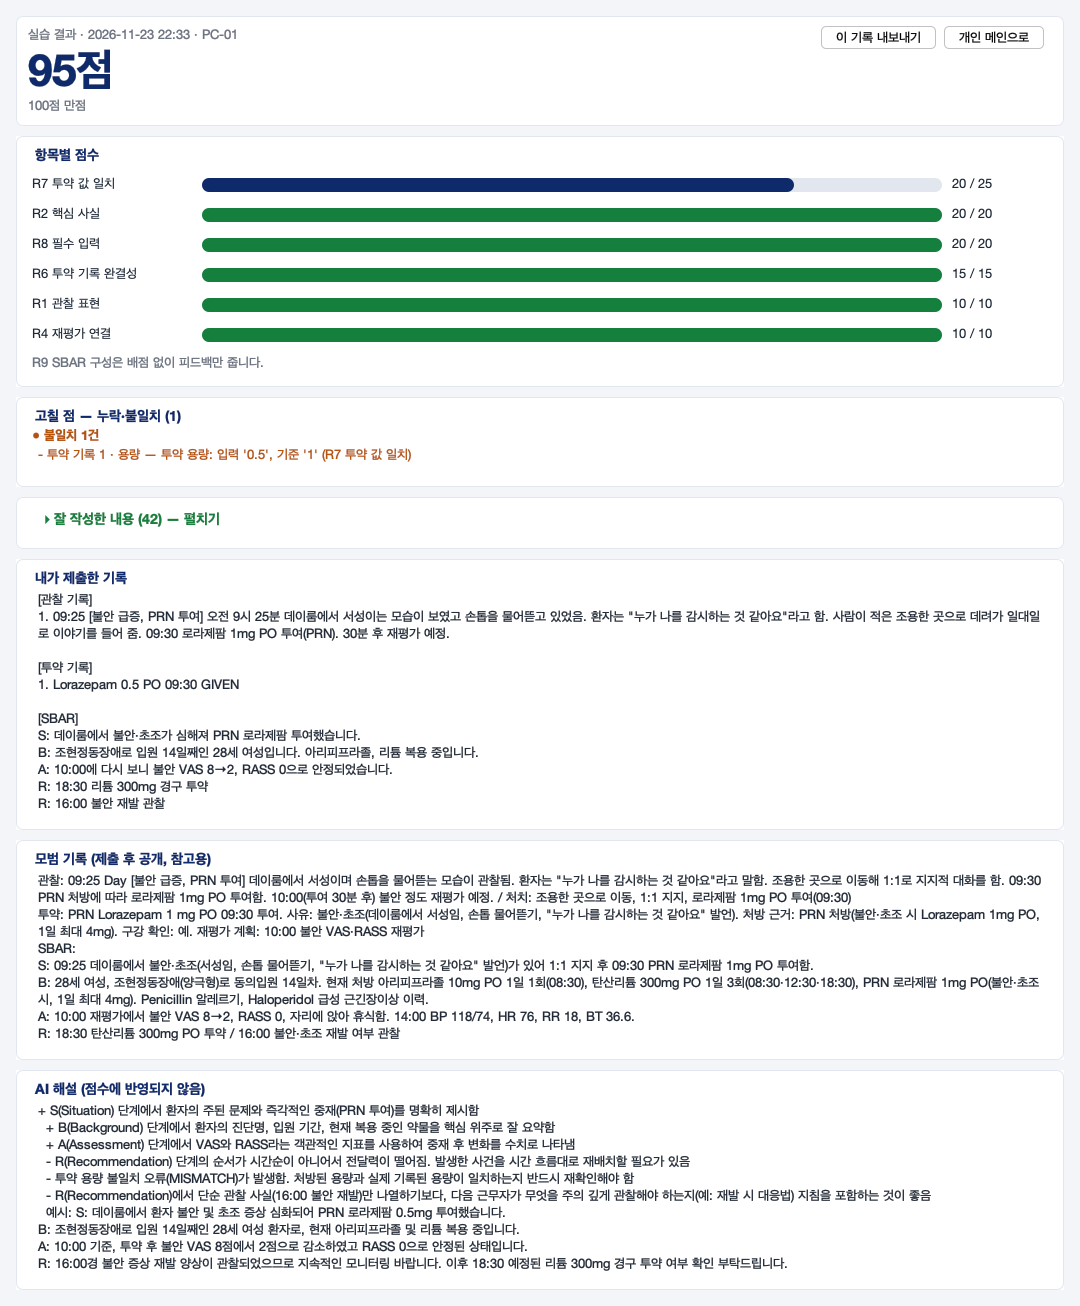
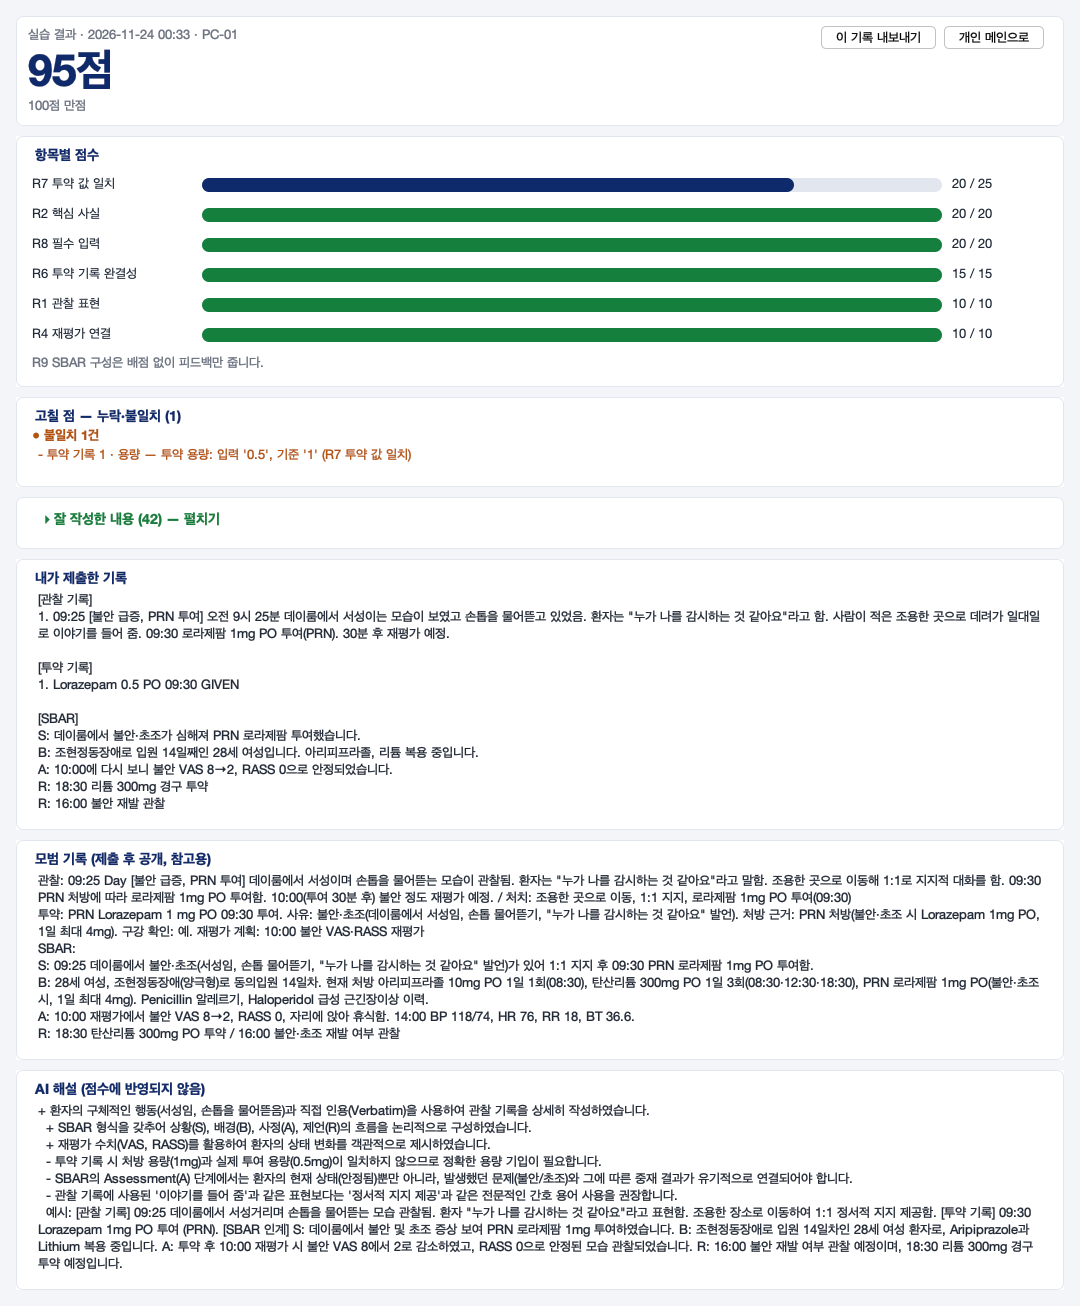
v0.1.2-1130으로 demo01 시연 5회 다시 실습
- 이전 버전 기록을 지운 뒤 릴리스 JAR로 5회 실습(100·95·90·86.7·86.7점, 의도한 실수만 감점)
- AI 해설 5/5 저장, 케이스에 없는 내용·null 지적·R 시각 오지적 없음
- docs/시연 캡처·내보내기·결과표·README 갱신(개인 메인 기록 5건)

Changed region(s): [[0.0306, 0.827, 0.9472, 0.9801]]

diff --git a/docs/시연/README.md b/docs/시연/README.md
@@ -1,60 +1,41 @@
-# demo01 시연 실습 5회
+# demo01 시연 실습 5회 (v0.1.2-1130)
 
-- 일시: 2026-11-23, main(0114b18, #11 병합 후) 기준 빌드
+- 일시: 2026-11-24, 릴리스 [v0.1.2-1130](https://github.com/dlstjr1207/java-pbl-nursing-chart/releases/tag/v0.1.2-1130) JAR(main `8da2e38`)로 실행. 릴리스에서 받은 JAR과 직접 빌드한 JAR의 해시가 같음을 확인
 - 실행: 실제 메인 창(`Main.createFrame`)을 띄우고 `UiWalkthrough`의 `demo5` 모드로 입력칸에 글을 넣고 버튼을 눌러 제출. 저장은 MySQL, AI 해설·AI 케이스 생성 켬
-- 계정: [docs/시연계정.md](../시연계정.md)
-- 입력 문장은 학생이 쓴 것처럼 회마다 다르게 썼고, 모범 기록 문장을 복사하지 않았다
+- 계정: [docs/시연계정.md](../시연계정.md). 이전 버전으로 만든 기록은 모두 지우고(사용자가 SQL로 삭제) 새로 실습했다
+- 학생 문장은 회마다 직접 썼고, 모범 기록 문장을 복사하지 않았다. ⑤는 도구가 AI 환자를 만든 뒤 멈추면 그 환자의 브리핑을 보고 문장을 써서 넣었다
 - 채점 규칙·배점은 바꾸지 않았다
 
 ## 결과표
 
-| 회 | 케이스 | 의도한 실수 | 점수 | 항목별 점수 | 주요 피드백 |
+| 회 | 환자 | 의도한 실수 | 점수 | 틀린 항목 | AI 해설 이상 여부 |
 |---|---|---|---|---|---|
-| ① | 김하늘 (PC-01) | 없음 (모범에 가까운 기록) | **100** | R7 25 · R2 20 · R8 20 · R6 15 · R1 10 · R4 10 | 누락·불일치 없음 |
-| ② | 김하늘 (PC-01) | 투약 용량 0.5mg | **95** | R7 **20**/25, 나머지 만점 | 불일치: 투약 용량 입력 '0.5', 기준 '1' (R7) |
-| ③ | 김하늘 (PC-01) | 발언을 따옴표 없이 바꿔 씀 + '협조적' | **90** | R1 **0**/10, 나머지 만점 | 누락: 환자 발언은 따옴표로 그대로 인용 (R1) · 피드백: '협조적'은 판단 표현 (R1, 배점 없음) |
-| ④ | 김하늘 (PC-01) | 재평가 계획 없음 + SBAR R 한 줄 | **86.7** | R2 **16.7**/20 · R4 **0**/10, 나머지 만점 | 누락: 관찰 기록의 재평가 (R2) · 재평가 계획 (R4) · 피드백: R에 '18:30 리튬 투약' 없음 (R9, 배점 없음) |
-| ⑤ | 안서윤 (GEN-20261123-2249, AI 생성) | 재평가 계획 누락 하나 (용량은 일부러 "1.0mg"으로 씀) | **86.7** | R2 **16.7**/20 · R4 **0**/10, 나머지 만점 | 누락: 관찰 기록의 재평가 (R2) · 재평가 계획 (R4) |
+| ① | 김하늘 (PC-01) | 없음 (모범에 가까운 기록) | **100** | 없음 | 없음 (참고: "A에 투약 전 VAS 8을 함께 쓰라"고 했으나 학생은 이미 "VAS 8→2"를 씀) |
+| ② | 김하늘 (PC-01) | 투약 용량 0.5mg | **95** | R7 용량 불일치 ('0.5', 기준 '1') | 없음. 0.5mg 불일치를 정확히 지적 |
+| ③ | 김하늘 (PC-01) | 발언을 따옴표 없이 바꿔 씀 + '협조적' | **90** | R1 따옴표 인용 누락 (0/10). '협조적' 판단 표현 피드백(배점 없음) | 없음. 예시에 케이스의 실제 발언만 인용 |
+| ④ | 김하늘 (PC-01) | 재평가 계획 없음 + SBAR R 한 줄 | **86.7** | R4 재평가 계획 누락 (0/10), R2 관찰의 재평가 누락 (16.7/20). R9 '18:30 리튬 투약' 없음 피드백(배점 없음) | 없음 |
+| ⑤ | 송미연 (GEN-20261124-0034, AI 생성) | 재평가 계획 누락 (용량은 일부러 "1.0mg"으로 씀) | **86.7** | R4 재평가 계획 누락 (0/10), R2 관찰의 재평가 누락 (16.7/20). "1.0mg"은 감점 없음 | 없음. 실제 발언("너무 불안해요")과 실제 수치(15:10 BP 115/75, HR 72)만 씀 |
 
-5회 모두 의도한 실수가 예상한 규칙에서 잡혔고, 다른 감점은 없었다. 5회 모두 AI 해설을 받았다(SUCCESS). 결과 화면 상단에는 매번 환자 이름과 케이스 ID가 보였다.
+- 5회 모두 의도한 실수만 감점되었다. 5회 모두 AI 해설을 받았다(SUCCESS).
+- AI 해설 이상 여부는 다섯 해설을 하나씩 읽고 확인했다. 확인 항목: 케이스에 없는 발언·수치·사건·간호 조치, 빈 값(null) 지적, R 시각 오지적.
+- 결과 화면 상단에는 매번 환자 이름과 케이스 ID가 보였다.
 
-### ⑤ 다시 실습 (용량 버그 수정 후)
+## 지금까지 고친 것
 
-처음 ⑤(홍준영, GEN-20261123-2235, 83.3점)는 두 가지 문제가 있어 다시 실습했다.
-
-- **용량 표기 버그:** AI 처방 용량이 `1.0`이라 관찰 서술의 "1.0mg"이 정답 키 `1mg|1 mg`과 맞지 않아 R2 '투약'이 누락으로 잡혔다. 채점 비교에서 숫자 끝 `.0`을 없애 "1.0mg"·"1.0 mg"·"1mg"을 같은 값으로 보게 고쳤고(학생 기록과 정답 키 모두), AI 케이스를 저장할 때 처방·정답 키·모범 투약 기록의 `1.0`을 `1`로 정리한다. "0.5mg"은 계속 틀린다. 배점·판단 기준은 그대로다.
-- **입력 문장:** 도구가 정답 키 단어를 이어 붙여 "서성 모습이 보임" 같은 문장이 생겼다. 다시 할 때는 도구가 AI 환자를 만든 뒤 사실(브리핑·처방·활력징후)을 파일로 남기고 멈추면, 사람이 그 환자에 맞는 문장을 써서 넘겼다.
-
-새 ⑤에서는 관찰 서술과 투약 기록에 일부러 "1.0mg"·"1.0"을 썼고, R2 '투약'과 R7 용량이 모두 통과했다. 의도한 실수(재평가 계획 누락)만 R2 재평가·R4에서 잡혔다.
-
-중간에 한 번 더 실습한 기록(정준혁, GEN-20261123-2247, 86.7점)이 있다. 이때 AI 해설이 학생이 쓴 실제 활력징후 값을 "케이스에 없는 수치"라고 잘못 지적했다. 해설 요청에 브리핑만 보내고 활력징후·관찰 로그는 보내지 않았기 때문이다. 이를 고친 뒤 안서윤으로 다시 실습했다. 이 기록과 처음 ⑤ 기록은 삭제 대상이다(아래 SQL).
-
-### AI 해설이 없는 사실을 만들지 않게
-
-처음 ③의 해설 예시에 케이스에 없는 환자 발언("너무 불안하고 마음이 안 잡혀요")이 들어갔다. 해설 지시문과 요청 글에 "케이스와 학생 기록에 없는 환자 발언·수치·사건을 만들지 말 것. 예시 문장에는 케이스의 실제 발언만 인용할 것"을 넣었다. 요청에는 케이스 브리핑·활력징후·관찰 로그와 학생 관찰 기록을 사실 자료로 함께 보낸다(정답 키·모범 기록은 보내지 않음). 새 ⑤ 해설의 예시는 케이스의 실제 발언("머릿속이 너무 복잡하고 무서워요")과 실제 수치(11:30 BP 115/75, HR 76)만 썼다. ①~④의 해설은 수정 전에 받은 것이라 그대로 두었다.
-
-### 기존 ⑤ 기록 삭제 (사용자가 직접 실행)
-
-```sql
--- 확인: 지울 2건만 나와야 한다 (id 11, 12)
-SELECT a.id, u.login_id, a.case_id, a.submitted_at, a.score
-FROM attempts a JOIN users u ON u.id = a.user_id
-WHERE u.login_id = 'demo01' AND a.case_id IN ('GEN-20261123-2235', 'GEN-20261123-2247');
-
--- 삭제: 관찰·투약·SBAR·점검 결과는 ON DELETE CASCADE로 함께 지워진다
-DELETE a FROM attempts a JOIN users u ON u.id = a.user_id
-WHERE u.login_id = 'demo01' AND a.case_id IN ('GEN-20261123-2235', 'GEN-20261123-2247');
-```
+| 버전 | 고친 것 |
+|---|---|
+| v0.1.1-1130 | 처방이 "1.0mg"일 때 그대로 쓰면 R2 투약 누락으로 감점되던 버그 (채점 비교에서 숫자 끝 .0 제거, AI 케이스 저장 시 1.0→1). AI 해설이 케이스에 없는 발언을 지어내던 문제 |
+| v0.1.2-1130 | AI 해설이 따옴표 때문에 '불러오지 못함'이 되던 문제(복구 + 한 번 재요청). 빈 활력값 null 지적, R 시각 오지적, 진단·약 "케이스에 없음" 오지적, 학생 투약 용량 오판, '격리' 지어내기. 확인 결과는 [docs/검증/ai-해설](../검증/ai-해설/README.md) |
 
 ## 알려진 한계 (채점 규칙은 바꾸지 않음)
 
-1. **R6은 구강 확인 체크를 점검하지 않는다(후속 범위).** 처음 ⑤에서 구강 확인을 체크하지 않았는데 R6이 만점이었다.
+1. **R6은 구강 확인 체크를 점검하지 않는다(후속 범위).**
 2. 결과 문구의 조사가 어색하다: "재평가을(를)", "경로이(가)" 등.
-3. ①~④의 AI 해설은 지어내기 금지를 넣기 전에 받은 것이다. ③ 해설 예시에는 케이스에 없는 발언이 남아 있다.
+3. AI 해설은 매번 달라진다. 지어내기 금지와 사실 자료를 넣었지만 해석 표현(예: "망상적 사고")이나 깨진 단어가 드물게 나올 수 있다. 점수에는 반영되지 않는다.
 
 ## 추천 시연 순서
 
-1. ① 100점: 결과 화면 구성(총점 → 항목별 막대 → 고칠 점 없음 → 모범 기록 공개)
+1. ① 100점: 결과 화면 구성(총점 → 항목별 막대 → 고칠 점 없음 → 모범 기록 공개 → AI 해설)
 2. ③ 판단 표현: 따옴표 인용 누락(R1 0점)과 '협조적' 피드백(배점 없음)의 차이
 3. ② 용량 0.5mg: 투약 값 불일치가 주황색 '불일치'로 보이는 모습
 4. ⑤ AI 환자: AI 생성 케이스(ID·임상 검수 전 표시), "1.0mg"으로 써도 감점되지 않는 것, 실제 사실만 인용하는 AI 해설
@@ -70,6 +51,9 @@ WHERE u.login_id = 'demo01' AND a.case_id IN ('GEN-20261123-2235', 'GEN-20261123
 | ④ | [4회-결과-상단.png](4회-결과-상단.png) | [4회-결과-전체.png](4회-결과-전체.png) | [4회-내보내기.txt](4회-내보내기.txt) |
 | ⑤ | [5회-결과-상단.png](5회-결과-상단.png) | [5회-결과-전체.png](5회-결과-전체.png) | [5회-내보내기.txt](5회-내보내기.txt) |
 
-⑤ 환자 정보 화면: [5회-환자정보.png](5회-환자정보.png) · 개인 메인: [demo-home.png](demo-home.png) (기존 ⑤ 2건 삭제 전이라 기록 7건이 보임) · 실행 로그: [walkthrough.txt](walkthrough.txt)(①~④와 처음 ⑤), [walkthrough-5회-재실습.txt](walkthrough-5회-재실습.txt) · 도구가 만든 원본 표: [demo-table.md](demo-table.md)
+- ⑤ 환자 정보 화면: [5회-환자정보.png](5회-환자정보.png)
+- 개인 메인 (기록 5건): [demo-home.png](demo-home.png)
+- 실행 로그: [walkthrough.txt](walkthrough.txt)
+- 도구가 만든 원본 표: [demo-table.md](demo-table.md)
 
 캡처는 화면을 찍지 않고 프로그램 창만 그림으로 그려 저장했다(다른 창·바탕화면이 섞이지 않음).

diff --git a/progress.md b/progress.md
@@ -27,6 +27,7 @@
 | 날짜 | 변경 | 확인 범위 |
 |---|---|---|
 | 2026-11-23 | 단계 1: 실습 시작 후 화면이 비던 버그 수정(Reloadable), AI 호출 SwingWorker, 작성 중 이동 확인, 파일 저장 모드(D27), FileWriter 내보내기, DbConfig·loop.sh 보완 | ./mvnw test 163개 통과. 실제 창으로 실습 한 바퀴(파일 저장 모드·DEMO) 확인 |
+| 2026-11-24 | demo/rerun-0.1.2: v0.1.2-1130 JAR로 demo01 실습 5회 다시(이전 기록 삭제 후), docs/시연 갱신 | 100·95·90·86.7·86.7점, 의도한 실수만 감점, AI 해설 5/5 저장·이상 없음 [docs/시연](docs/시연/README.md) |
 | 2026-11-24 | fix/ai-explain: AI 해설 수정. 따옴표 섞인 응답 복구 + 한 번 재요청(두 번 실패 시에만 FAILED), 빈 활력값 null 대신 생략·"기록 없음", R 시각 설명, 환자 정보·알레르기·처방·학생 투약 기록을 사실 자료로 전달, 간호 조치 지어내기 금지 | ./mvnw test 235개 통과. 실제 AI 15회 모두 저장, 지어낸 내용·null·R 시각 오지적 0건 [docs/검증/ai-해설](docs/검증/ai-해설/README.md) |
 | 2026-11-23 | demo/demo01: 시연 계정 demo01(MySQL)과 실습 5회. 용량 표기 버그 수정(채점 비교에서 숫자 끝 .0 제거 — "1.0mg"="1mg", 학생 기록·정답 키 모두, AI 케이스 저장 시 처방·정답 키·모범 투약 기록의 1.0→1), AI 해설 지어내기 금지(지시문 + 케이스 브리핑·활력징후·관찰 로그를 사실 자료로 전달) | ./mvnw test 229개 통과. 시연 5회 100·95·90·86.7·86.7점, 의도한 실수만 감점 [docs/시연](docs/시연/README.md) |
 | 2026-11-23 | polish/1130 추가: CI를 xvfb-run·actions v5로(화면 없는 환경에서 JFrame 테스트 실패 수정, 메뉴 숨김 판단은 AppState로 분리), 결과 화면 상단에 그 실습의 환자·케이스 ID, AI 생성 케이스 ID를 프로그램이 생성 시각으로, 생성 프롬프트 학생 입장, CaseValidator 활력 범위·정답 키↔브리핑·약명 한글·영어·PO\|경구·모범 기록 시각 HH:mm·정답 키 기호 금지, 모범 기록 100점 확인 후 사용, 최근 장소·성·병실·진단·이름 피하기, 점검 캡처는 창을 직접 그림 | ./mvnw test 222개 통과(headless 모드도 통과, 창 테스트 1개 건너뜀). 실제 AI 3회 생성 14/14 통과 [docs/검증/polish/ai3](docs/검증/polish/ai3/README.md) |

diff --git a/docs/시연/demo-table.md b/docs/시연/demo-table.md
@@ -4,4 +4,4 @@
 | 2 | 김하늘 (PC-01) | 투약 용량을 0.5mg으로 입력 (R7 불일치) | 95점 | R7 20/25 · R2 20/20 · R8 20/20 · R6 15/15 · R1 10/10 · R4 10/10 | 불일치: 투약 기록 1 · 용량 — 투약 용량: 입력 '0.5', 기준 '1' (R7 투약 값 일치) |
 | 3 | 김하늘 (PC-01) | 발언을 따옴표 없이 바꿔 쓰고 '협조적' 사용 (R1 감점 + 판단 표현 피드백) | 90점 | R7 25/25 · R2 20/20 · R8 20/20 · R6 15/15 · R1 0/10 · R4 10/10 | 누락: 관찰 기록 1 · 서술 — 환자 발언은 따옴표(" ")로 그대로 인용하세요. (R1 관찰 표현)<br>피드백: 관찰 기록 1 · 서술 — '협조적'은(는) 판단 표현입니다. 관찰한 행동으로 바꿔 쓰세요. (R1 관찰 표현) |
 | 4 | 김하늘 (PC-01) | 재평가 계획 없음, SBAR R 한 줄만 (R4 누락 + R9 피드백) | 86.7점 | R7 25/25 · R2 16.7/20 · R8 20/20 · R6 15/15 · R1 10/10 · R4 0/10 | 누락: 관찰 기록 · 재평가 — 관찰 기록에 재평가을(를) 적으세요. (예: 10:00) (R2 핵심 사실)<br>누락: 재평가 계획 — 재평가 계획(언제 무엇을 다시 확인할지)을 관찰 기록이나 투약 기록에 적으세요. (R4 재평가 연결)<br>피드백: SBAR R(권고) · 필수 요소 1 — SBAR R(권고)에 '18:30 리튬 투약' 요소를 포함하세요. (예: 18:30 리튬) (R9 SBAR 구성) |
-| 5 | 안서윤 (GEN-20261123-2249) | 재평가 계획 누락 (관찰·투약 기록 모두), 용량은 처방 표기와 다르게 1.0mg으로 씀 | 86.7점 | R7 25/25 · R2 16.7/20 · R8 20/20 · R6 15/15 · R1 10/10 · R4 0/10 | 누락: 관찰 기록 · 재평가 — 관찰 기록에 재평가을(를) 적으세요. (예: 30분) (R2 핵심 사실)<br>누락: 재평가 계획 — 재평가 계획(언제 무엇을 다시 확인할지)을 관찰 기록이나 투약 기록에 적으세요. (R4 재평가 연결) |
+| 5 | 송미연 (GEN-20261124-0034) | 재평가 계획 누락 (관찰·투약 기록 모두), 용량은 처방 표기와 다르게 1.0mg으로 씀 | 86.7점 | R7 25/25 · R2 16.7/20 · R8 20/20 · R6 15/15 · R1 10/10 · R4 0/10 | 누락: 관찰 기록 · 재평가 — 관찰 기록에 재평가을(를) 적으세요. (예: 30분) (R2 핵심 사실)<br>누락: 재평가 계획 — 재평가 계획(언제 무엇을 다시 확인할지)을 관찰 기록이나 투약 기록에 적으세요. (R4 재평가 연결) |
